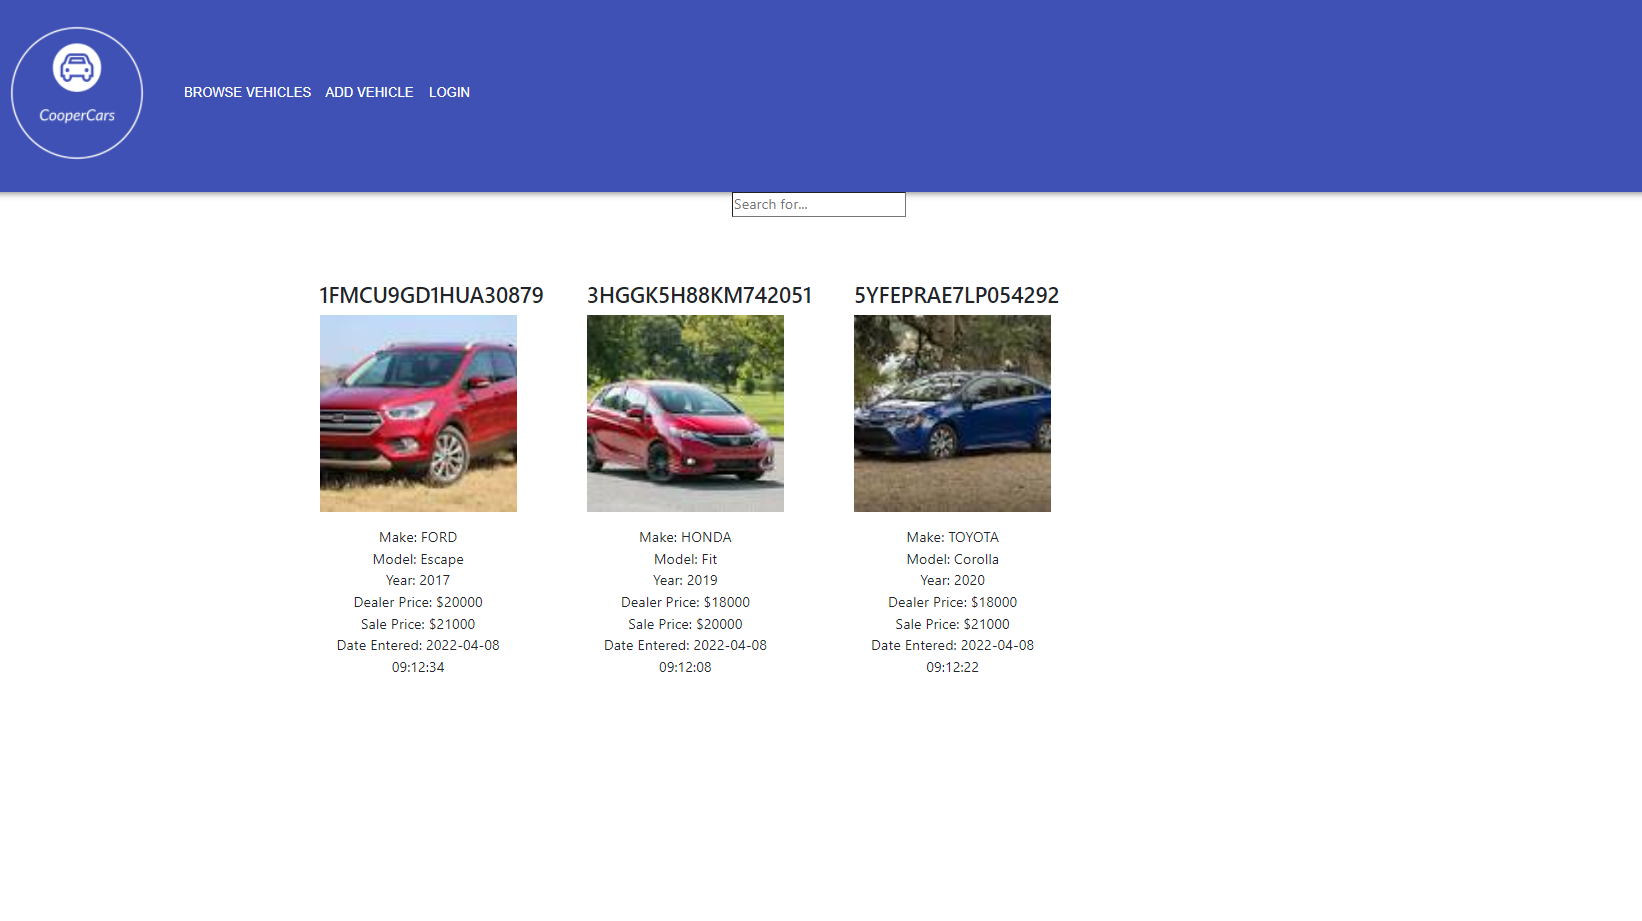
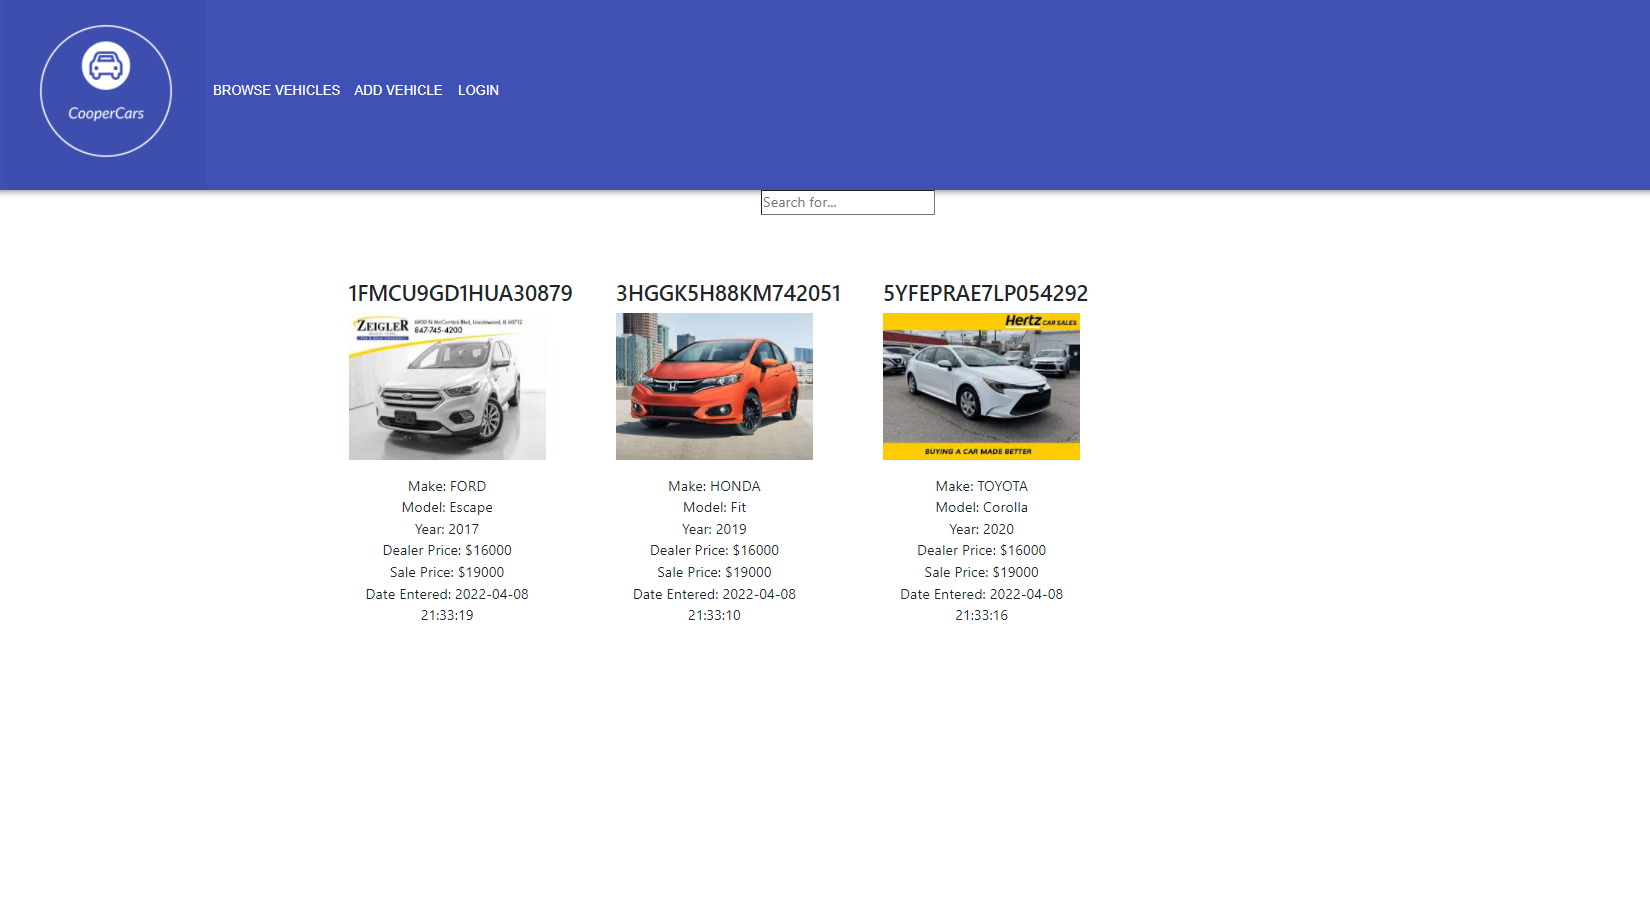
US-10: transitioned from CSV to mySQL database for vehicles, added date field, attempted to auto-populate image

Changed region(s): [[0.1864, 0.306, 0.6523, 0.7344], [0.0, 0.0306, 0.3106, 0.1836], [0.4348, 0.1836, 0.528, 0.2448]]

diff --git a/coopercars-service/src/main/java/edu/cooper/ece366/project/coopercars/server/VehicleAPI.java b/coopercars-service/src/main/java/edu/cooper/ece366/project/coopercars/server/VehicleAPI.java
@@ -239,7 +239,7 @@ public class VehicleAPI
         transmissionStyle = populateVehicleRow[65];
         //imgURL = populateVehicleRow[68];
         Date date = Calendar.getInstance().getTime();
-        DateFormat dateFormat = new SimpleDateFormat("yyyy-MM-dd hh:mm:ss");
+        DateFormat dateFormat = new SimpleDateFormat("yyyy-MM-dd HH:mm:ss");
         String strDate = dateFormat.format(date);
         imgURL = returnLink(year + "+" + make + "+" +model);
 
@@ -256,7 +256,7 @@ public class VehicleAPI
     public String returnLink(String str) {
         String links = null;
         try {
-            String url = "https://www.google.com/search?tbm=isch&q="+str+"cars.com";
+            String url = "https://www.google.com/search?tbm=isch&q="+str+"+exterior+image+cars.com";
             System.out.println(url);
             Document doc = Jsoup.connect(url).get();
             Elements el = doc.getElementsByAttribute("data-src");

diff --git a/README.md b/README.md
@@ -1,4 +1,5 @@
 # CooperCars: US-10 - transitioned CSV database to mySQL database
+## Note: mySql command: create database coopercars; (do this before running)
 ## Current Functionality:
 #### 'Browse Vehicles' page: Reads all the vehicles in the database. Filter by Make currently working.
 ![image1](us-10.png)
